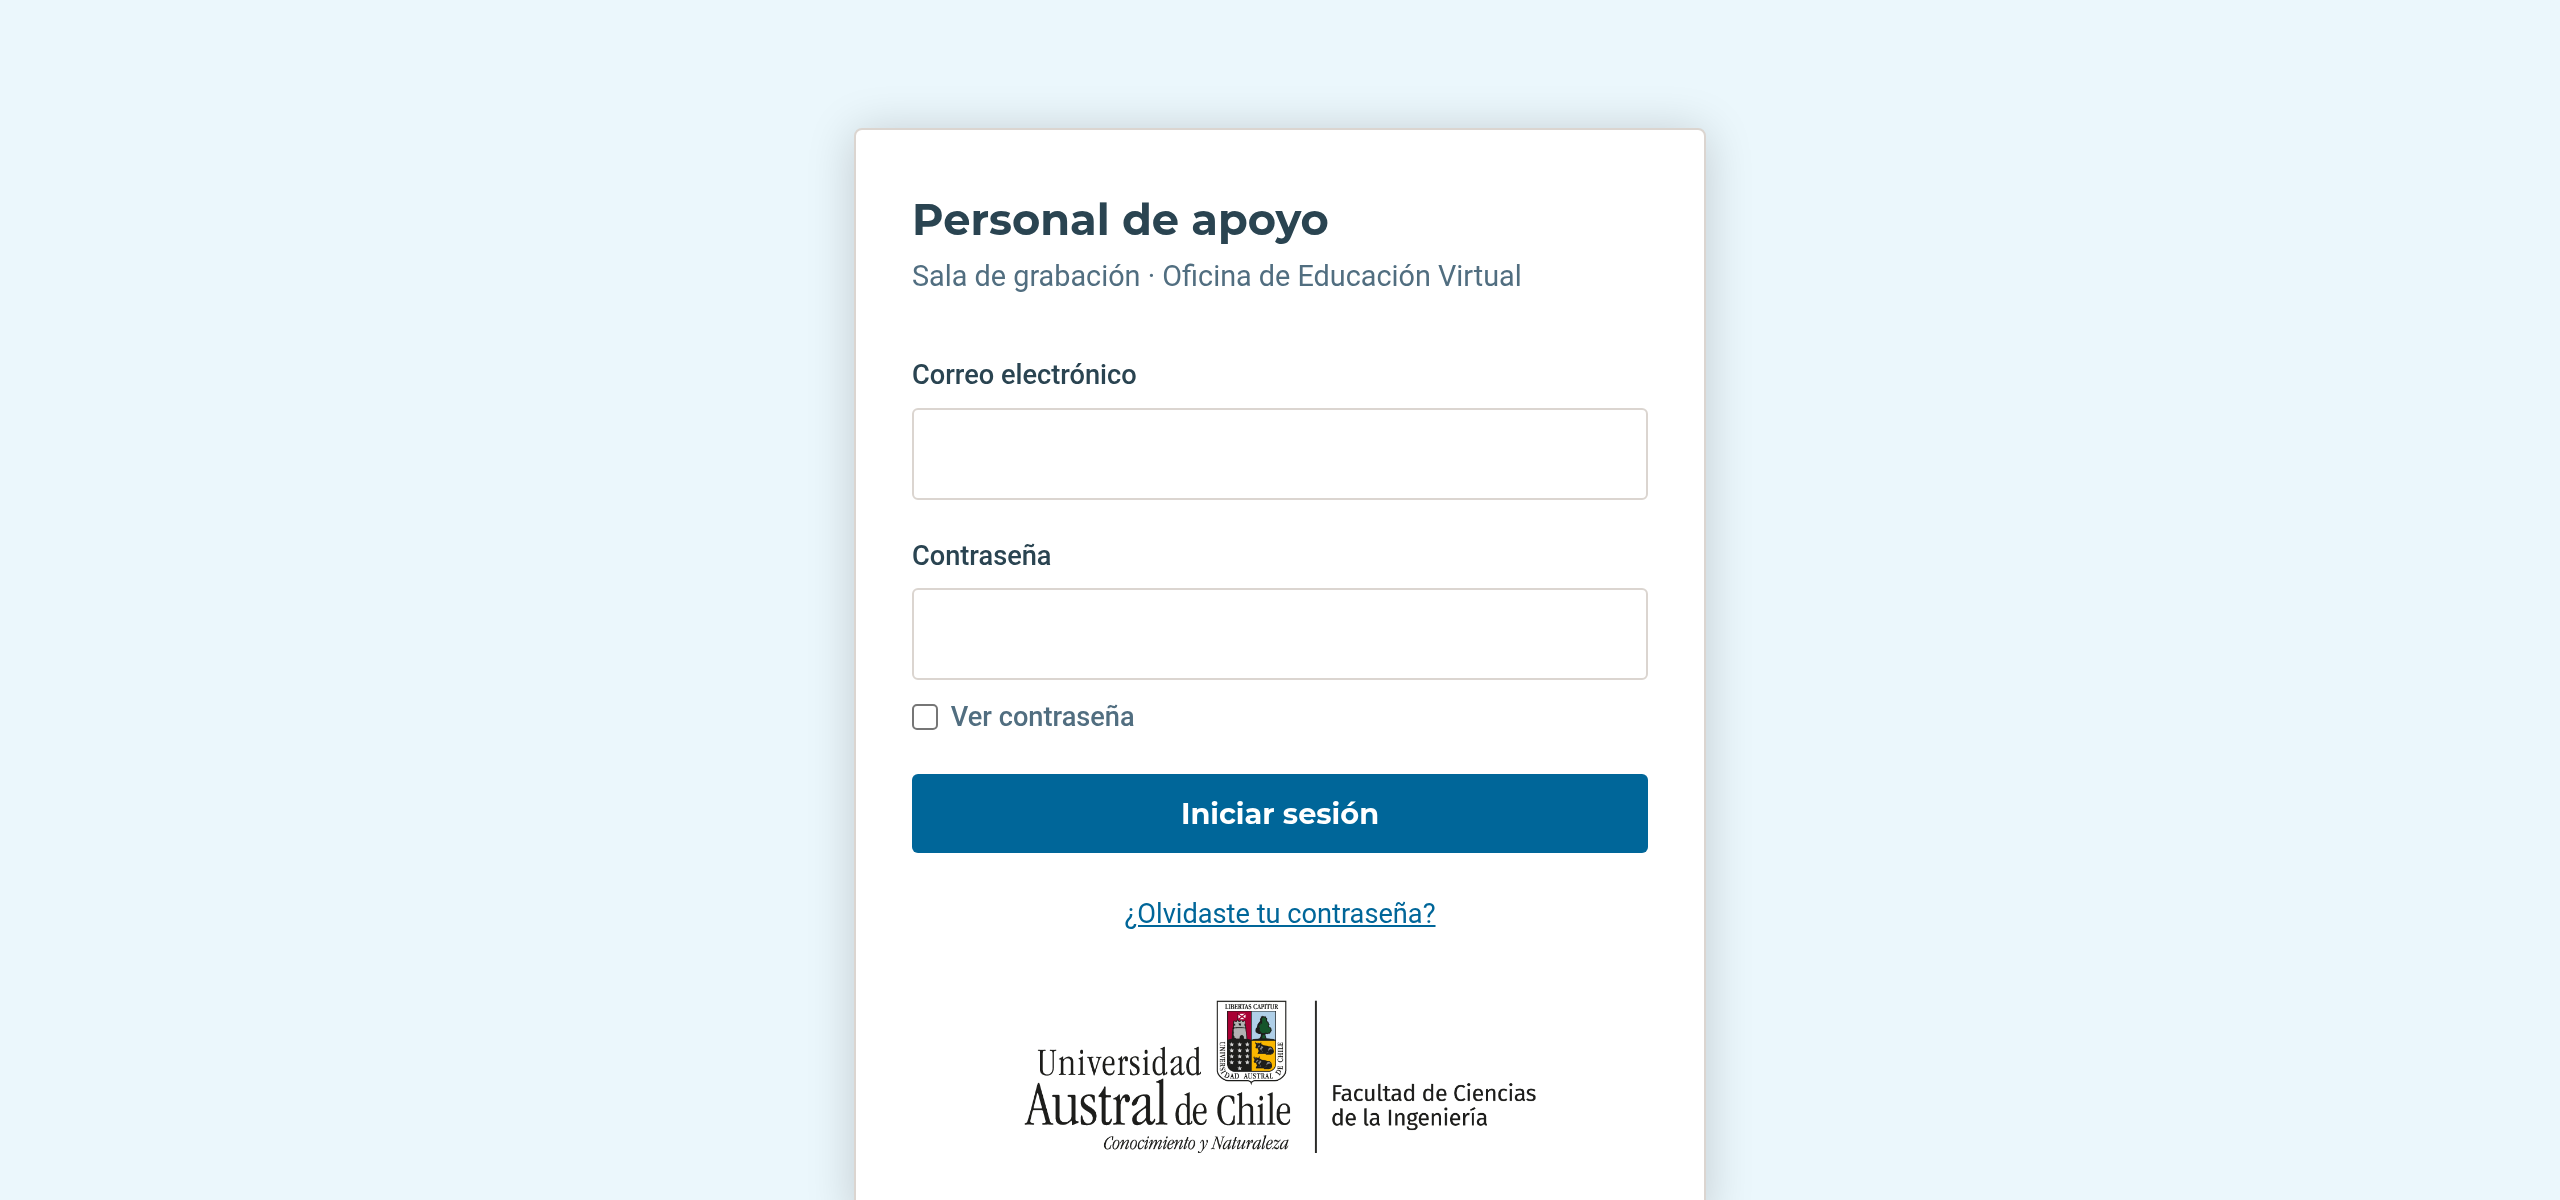
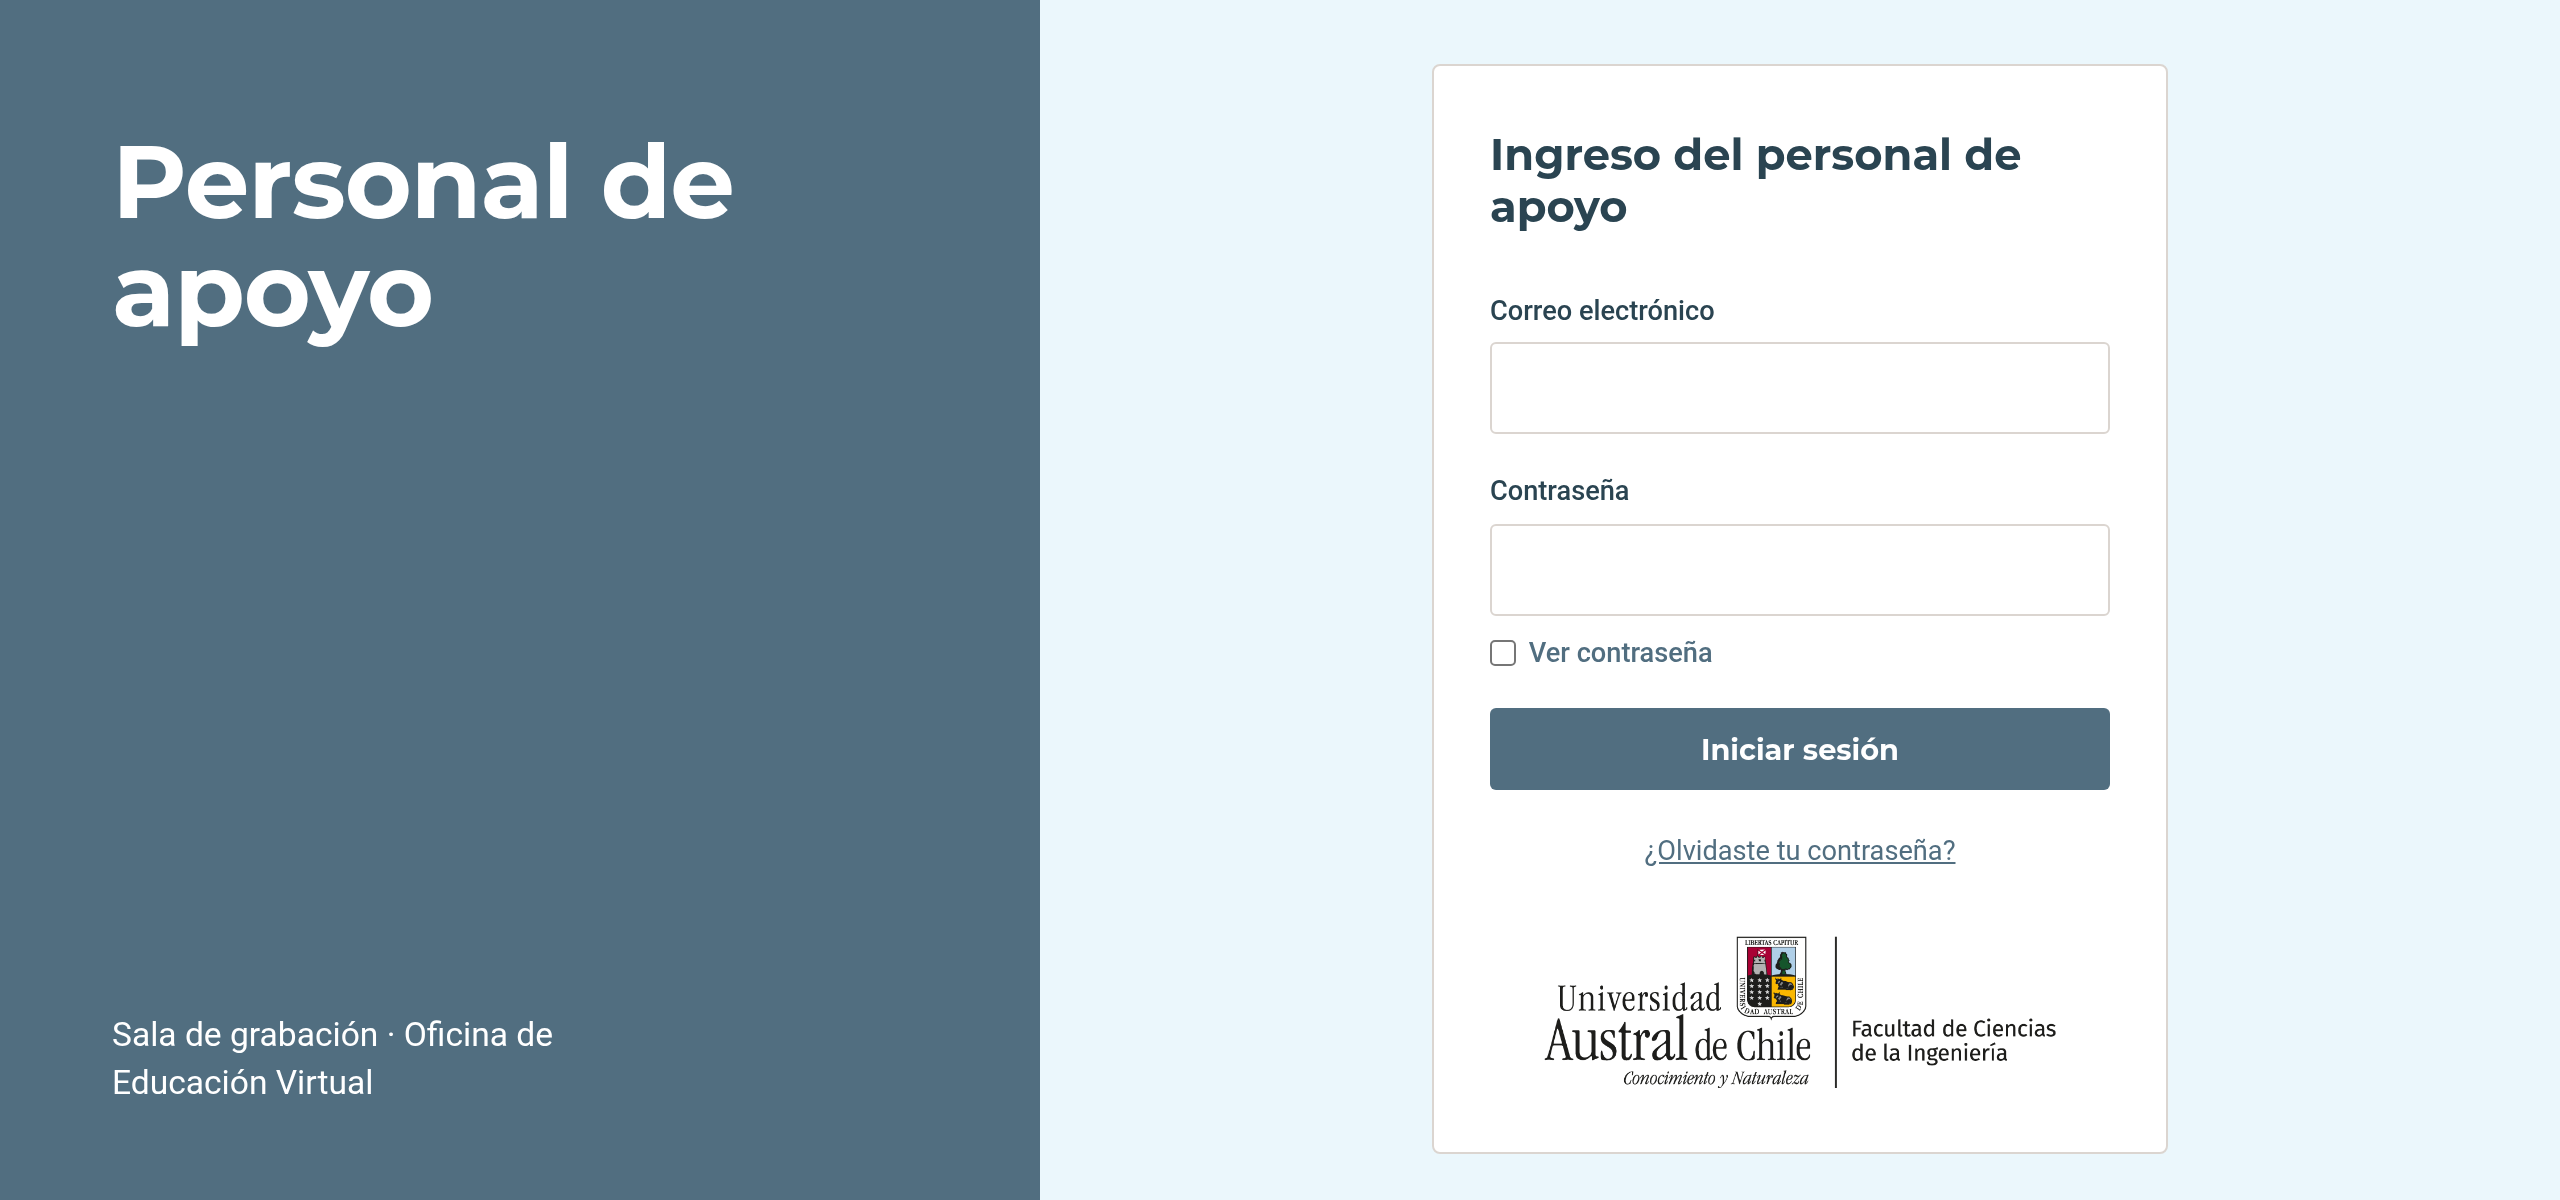
docs: login door screenshots and colors in the manual

diff --git a/docs/uso.md b/docs/uso.md
@@ -17,14 +17,15 @@ Este manual cubre lo que hoy está disponible en el sistema:
 ## Puertas de acceso
 
 Cada rol entra por su propia dirección. Solo la del solicitante está enlazada
-desde el sitio; las otras tres las conoce quien las usa.
+desde el sitio; las otras tres las conoce quien las usa. Cada puerta se reconoce
+por el panel de la izquierda, con el nombre y el color del rol.
 
-| Rol | Dirección |
-|---|---|
-| Solicitante | `/solicitante/entrar/` |
-| Administrador | `/configuracion/entrar/` |
-| Validador | `/validacion/entrar/` |
-| Personal de apoyo | `/apoyo/entrar/` |
+| Rol | Dirección | Panel |
+|---|---|---|
+| Solicitante | `/solicitante/entrar/` | Azul, **Solicitantes** |
+| Administrador | `/configuracion/entrar/` | Azul petróleo, **Administración** |
+| Validador | `/validacion/entrar/` | Vino, **Validación** |
+| Personal de apoyo | `/apoyo/entrar/` | Gris azulado, **Personal de apoyo** |
 
 ---
 
@@ -75,8 +76,8 @@ pantalla ofrece **Pedir otro enlace**.
 
 ## 2. Configurar la sala
 
-El panel del administrador tiene tres pestañas: **Bloques**, **Áreas** y
-**Reglas**. Se entra por `/configuracion/entrar/`.
+El panel del administrador tiene cuatro pestañas: **Bloques**, **Áreas**,
+**Reglas** y **Validación**. Se entra por `/configuracion/entrar/`.
 
 ![Puerta de la administración](uso/us-04/puerta-administracion.png)
 
